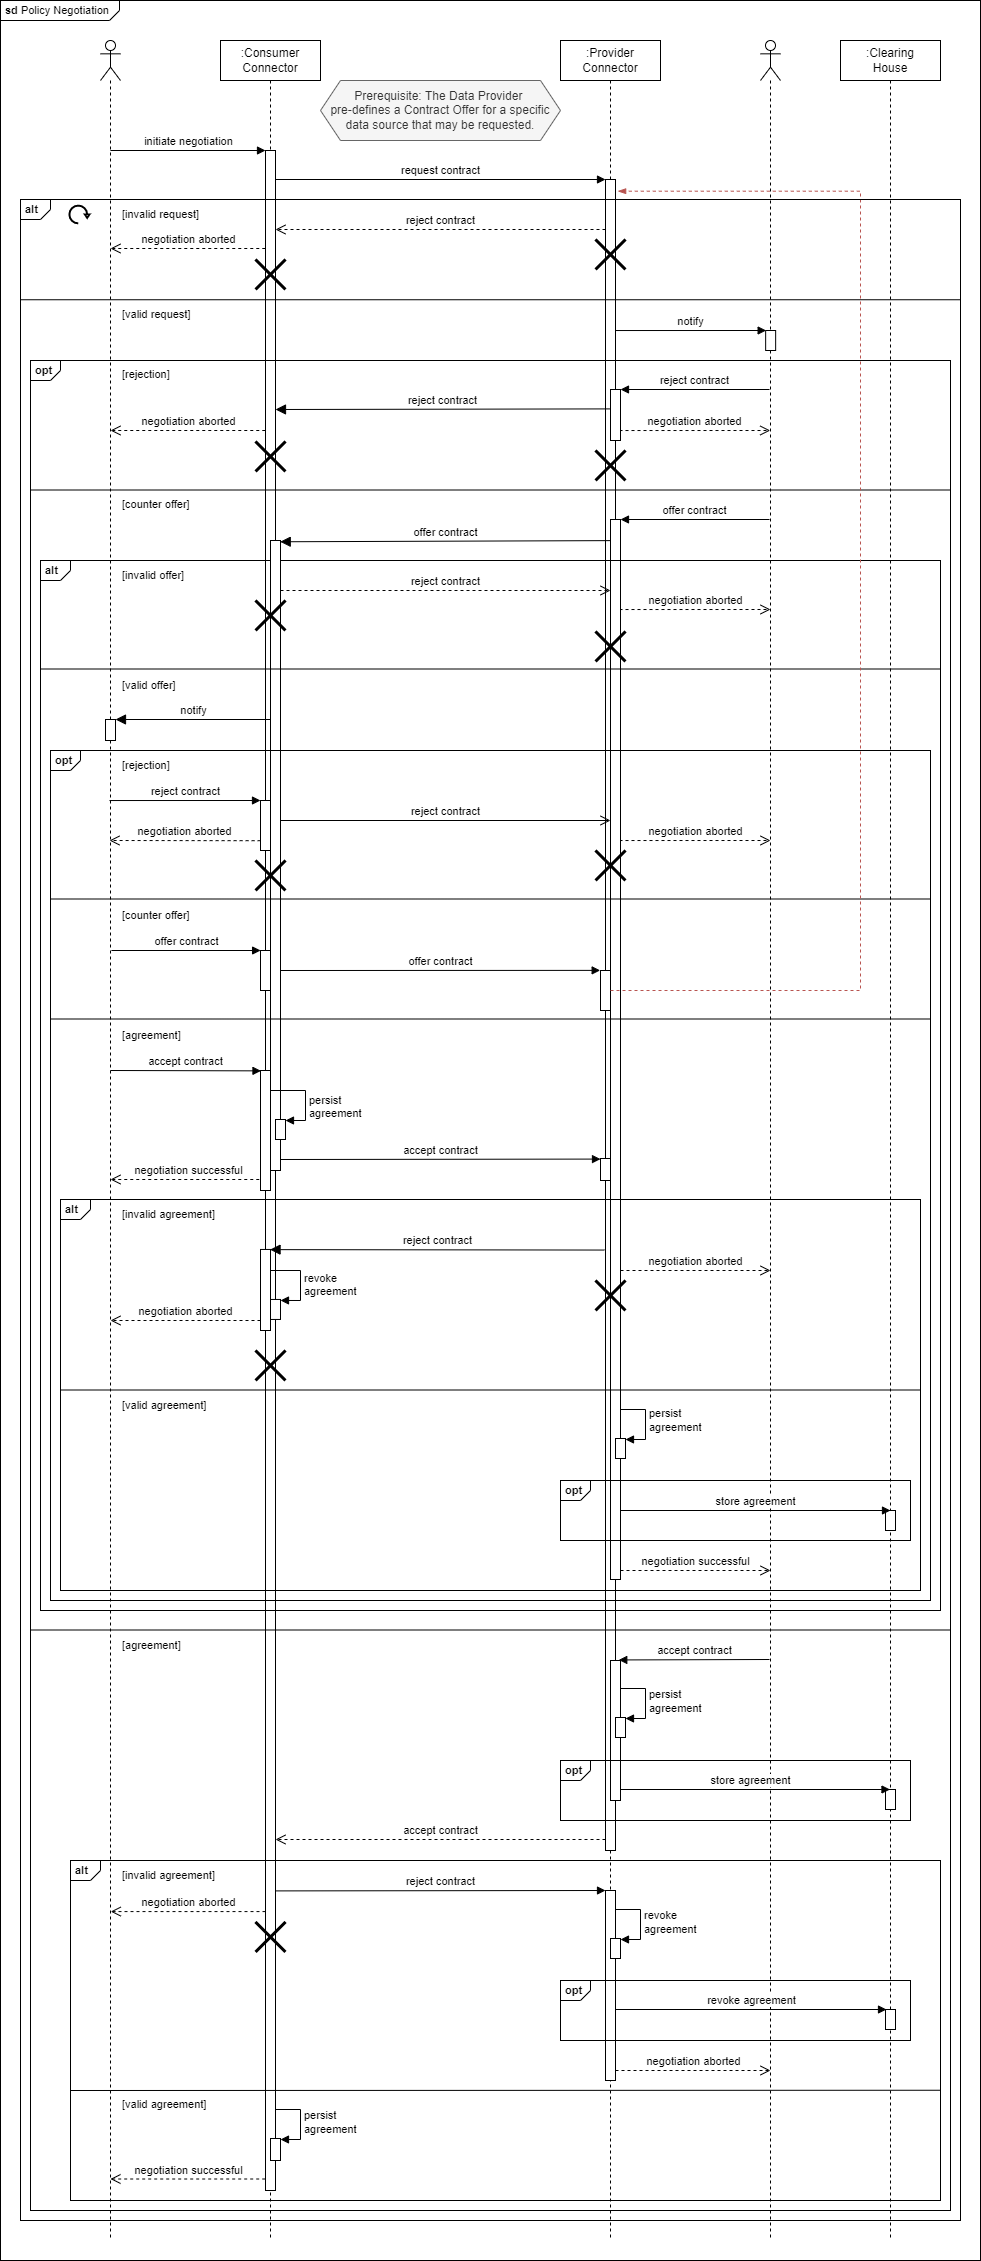
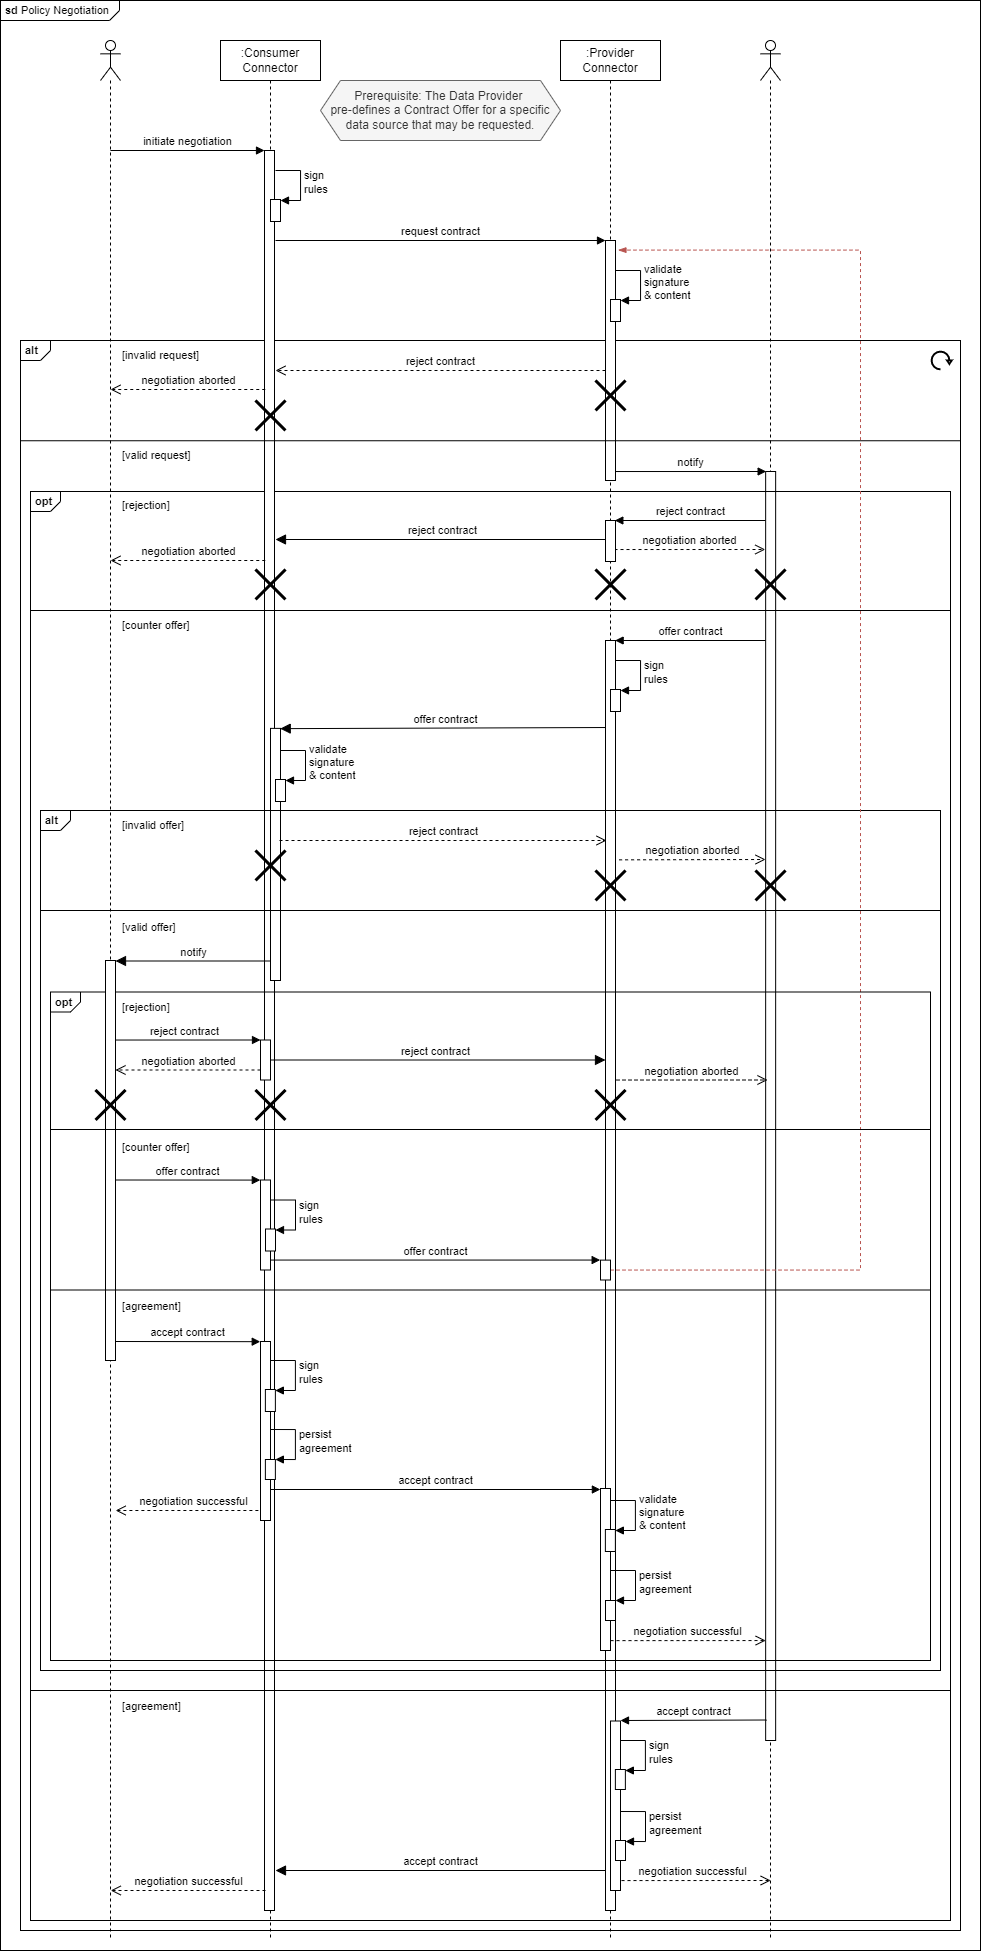
chore: update diagrams

diff --git a/documentation/3_Layers_of_the_Reference_Architecture_Model/3_3_Process_Layer/3_3_3_Contract_Negotiation.md b/documentation/3_Layers_of_the_Reference_Architecture_Model/3_3_Process_Layer/3_3_3_Contract_Negotiation.md
@@ -57,14 +57,18 @@ reactivated, but a new one can be started at any time.
 ## Clearing House
 
 In addition, for extra security, the approval of a Contract Request or Offer may be extended by
-involving the Clearing House. This signs the TODO
+involving the Clearing House. After receiving the Contract Agreement from the Data Provider, it 
+first checks the signature of both involved Connectors and then signs the Contract Agreement itself. 
+The Provider Connector returns the triple signed Contract Agreement to the Data Consumer, that can
+finally check all signatures to be sure that the Contract Agreement contains the requested content.
 
 ![Clearing House Involvement](media/policy-negotiation-sequence-4.png)
 #### _Fig. BB: Contract Agreement with Clearing House Involvement_
 
 ## Reversed Sequence
 
-Figure [CC]() depicts a simple negotiation flow as Figure [CC](#_fig-aa-simple-contract-negotiation_). 
+Figure [CC](#_fig-cc-contract-negotiation---initiation-by-data-provider_) depicts a simple 
+negotiation flow as Figure [CC](#_fig-cc-contract-negotiation---initiation-by-data-provider_). 
 In this case, however, the sequence is reversed and the Data Provider initiates the negotiation. 
 Nevertheless, it should be noted that, since the Data Provider is the one who makes the data offer, 
 it is always the one who signs the Contract Agreement last (and sends it to the Clearing House).
@@ -74,17 +78,17 @@ it is always the one who signs the Contract Agreement last (and sends it to the 
 
 ## Counter Offers
 
-Figure DD illustrates a more complex negotiation flow that covers counter Contract Offers and
-external input. As soon as the Data Provider's IDS Connector receives a valid Contract Request, it
-may notify interested users or systems and provide an interface for input. Thus, the IDS Connector,
-if it does not already do so by default, can be extended by the functionality to automatically
-negotiate contracts within a certain range (e.g. using an AI service). Alternatively, a service
-or a user can interact and directly affect the negotiation by rejecting or agreeing to Contract
-Offers or Requests. In addition, counter Contract Offers can be made. Further steps take place as
-already described above: Incoming Contracts are validated and as soon as a Contract Agreement has
-been reached, it is persisted and enforced by both IDS Connectors. How this Policy Enforcement will
-be ensured is explained in Section [3.3.6](3_3_6_Policy_Enforcement.md).
+Figure [DD](#_fig-dd-contract-negotiation---counter-offers_) illustrates a more complex negotiation 
+flow that covers counter Contract Offers and external input. As soon as the Data Provider's IDS 
+Connector receives a valid Contract Request, it may notify interested users or systems and provide 
+an interface for input. Thus, the IDS Connector, if it does not already do so by default, can be 
+extended by the functionality to automatically negotiate contracts within a certain range (e.g., 
+using an AI service). Alternatively, a service or a user can interact and directly affect the 
+negotiation by rejecting or agreeing to Contract Offers or Requests. In addition, counter Contract 
+Offers can be made. Further steps take place as already described above: Incoming Contracts are 
+validated and as soon as a Contract Agreement has been reached, it is persisted and enforced by both 
+IDS Connectors. How this Policy Enforcement will be ensured is explained in Section 
+[3.3.6](3_3_6_Policy_Enforcement.md).
 
 ![Contract Negotiation: Counter Offers](media/policy-negotiation-sequence-3.png)
 #### _Fig. DD: Contract Negotiation - Counter Offers_
-// TODO Update Fig DD
